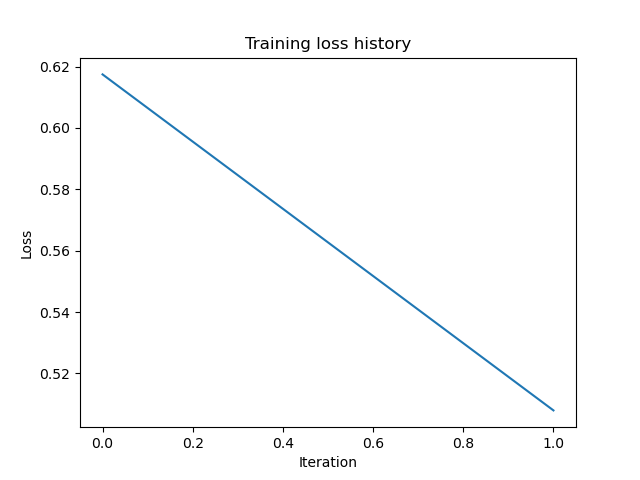
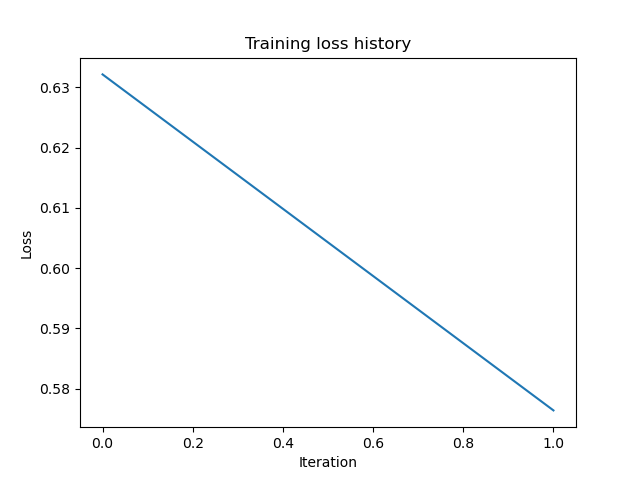
latest fake batch code

diff --git a/src/train_fakedata.py b/src/train_fakedata.py
@@ -8,26 +8,30 @@ from DataPreprocessor import DataPreprocessor
 from ContinuousTimeRNN import ContinuousTimeRNN
 from SingleLayerCTRNN import SingleLayerCTRNN
 
-NUM_EPOCHS = 1
-TRAINING_BATCHES = 2
+NUM_EPOCHS = 100
+TRAINING_BATCHES = 10
 
 def main():
     device = torch.device('cuda' if torch.cuda.is_available() else 'cpu')
 
     print("Processing training data...")
-    angs = np.load('angs_smooth.npy')
-    datagen = AVDataGenerator(T=angs.shape[1])
+    realAngs = np.load('angs_smooth.npy')
+    diffs = realAngs[1][1:] - realAngs[1][:-1]
+    datagen = AVDataGenerator(T=realAngs.shape[1], dt=25, mean=np.mean(diffs)/100, sigma=np.std(diffs)/10, momentum=0)
     
     initdirs = []
     inputs = []
     outputs = []
     
     for i in range(TRAINING_BATCHES):
-        dataProcessor = DataPreprocessor(datagen.GenerateAngs(), sample_length=700, normalize=False)
+        # if i == 0:
+        #     dataProcessor = DataPreprocessor(realAngs, sample_length=700, normalize=True)
+        # else:
+        dataProcessor = DataPreprocessor(datagen.GenerateAngs(), sample_length=700, normalize=True)
         initdirs.append(torch.from_numpy(dataProcessor.GetInitialInput()).float())
         inputs.append(torch.from_numpy(dataProcessor.GetTrainingInputs()).float())
         outputs.append(torch.from_numpy(dataProcessor.GetTrainingOutputs()).float())
-        print("Outputs: ", outputs[i][0][0])
+        print(f"Sample initdirs for fake batch {i}: ", initdirs[i][0][0])
 
     initdirs = torch.stack(initdirs).to(device)
     inputs = torch.stack(inputs).to(device)
@@ -81,12 +85,12 @@ def TestCTRNN(angs, model, device, training_outputs):
     radsOut = np.unwrap(np.arctan2(pred[0], pred[1]))
 
     print("Graphing test performance to performance.png...")
-    plt.plot(angs[1], label='ground truth', color='blue')
-    plt.plot(radsOut, label='predicted', color='orange')
     for i, output in enumerate(training_outputs):
         out = np.transpose(output.detach().cpu().numpy(), (2, 1, 0))
-        out = np.reshape(pred, (pred.shape[0], -1))
-        plt.plot(np.unwrap(np.arctan2(out[0], out[1])) + (i+2), label=f'training data {i}')
+        out = np.reshape(out, (out.shape[0], -1))
+        plt.plot(np.unwrap(np.arctan2(out[0], out[1])), label=f'fake batch {i}')
+    plt.plot(angs[1], label='ground truth', color='blue')
+    plt.plot(radsOut, label='predicted', color='orange')
     plt.xlabel('Timestep (ms)')
     plt.ylabel('Angle (rad)')
     plt.title('Prediction Visualization')

diff --git a/src/AVDataGenerator.py b/src/AVDataGenerator.py
@@ -2,6 +2,8 @@ import numpy as np
 import time
 import matplotlib.pyplot as plt
 
+from DataPreprocessor import DataPreprocessor
+
 class AVDataGenerator():
     def __init__(self, T=10000, dt=25, mean=0, sigma=0.03, momentum=0.8):
         """
@@ -38,7 +40,7 @@ class AVDataGenerator():
         for t in range(self.T - 1):
             times = np.append(times, times[t] + self.dt)
             if (rads[t] > 20 and vels[t] > 0) or (rads[t] < -20 and vels[t] < 0):
-                vels[t] = -vels[t]
+                vels[t] = -2 * vels[t]
             rads = np.append(rads, rads[t] + (self.dt * vels[t]))
             vels = np.append(vels, (np.random.normal(self.mean, self.sigma)) + self.momentum * vels[t])
 
@@ -55,7 +57,16 @@ def main():
 
     datagen = AVDataGenerator(T=realAngs.shape[1], dt=25, mean=np.mean(diffs)/100, sigma=np.std(diffs)/10, momentum=0)
     fakeAngs = datagen.GenerateAngs()
-    plt.plot(fakeAngs[1], label='fake angs')
+
+    dataProcessor = DataPreprocessor(fakeAngs, sample_length=700, normalize=False)
+    fakeOutputs = dataProcessor.GetTrainingOutputs()
+    fakeOutputs = np.transpose(fakeOutputs, (2, 1, 0))
+    fakeOutputs = np.reshape(fakeOutputs, (fakeOutputs.shape[0], -1))
+    fakeOutputs = np.unwrap(np.arctan2(fakeOutputs[0], fakeOutputs[1]))
+    plt.plot(fakeOutputs, label='fake angs')
+    
+    # fakeAngs = datagen.GenerateAngs()
+    # plt.plot(fakeAngs[1], label='fake angs 2')
 
     plt.xlabel('Timestep (ms)')
     plt.ylabel('Angle (rad)')
